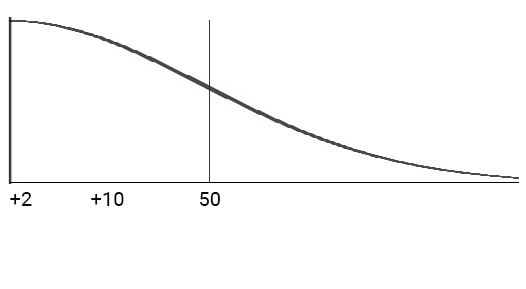
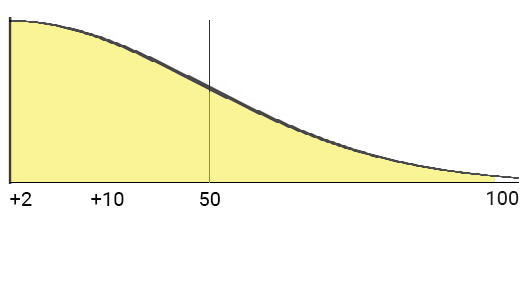
update

Changed region(s): [[0.0, 0.0623, 1.0, 0.7163]]

diff --git a/content/数据分析/微博抽奖到数据分析.md b/content/数据分析/微博抽奖到数据分析.md
@@ -3,7 +3,7 @@ title: "微博抽奖到数据分析"
 date: 2018-11-14T00:19:14+08:00
 ---
 
-感谢王思聪微博抽奖这个热点事件，我们获得了一个学习数据分析的机会😄😄。开始之前，我们先回顾一下这个事件：IG 战队在 LOL 比赛中夺冠，某王姓土豪发布了微博，从转发者中抽取 113名 用户发现金。
+感谢王思聪微博抽奖这个热点事件，我们获得了一个学习数据分析的机会😄😄。开始之前，我们先回顾一下这个事件：IG 战队在 LOL 比赛中夺冠，某王姓土豪发布了微博，从转发者中抽取 113名 用户送现金。
 
 ![wsc_weibo](https://coding.net/u/WindsonYang/p/WindsonYang.coding.me/git/raw/markdown/images/weibo/wsc_weibo.png)
 
@@ -15,14 +15,14 @@ date: 2018-11-14T00:19:14+08:00
 - 有的从新浪的角度出发，表明这只是新浪为了清除僵尸粉的措施，不小心把大部分男粉丝清除掉了。
 - 有的人认为抽到的都不是 ig 的粉丝，这样就像把演唱会门票送给不是粉丝的人一样，并不公平。
 
-作为一名旁观者，如果没有一定的统计与概率论背景，不太容易明白他们在说什么，更不用说判断对错了。如果你本身就不喜欢微博，会更容易认同诋毁微博方的观点。不过，这种根据自己的喜好所得出的结论是自欺欺人而不是真相。统计学是一个工具，而且是可以根据使用者的主观意识去操控的工具。**这篇文章通俗地解释整个事件背后发生的原因，让读者得出自己的结论，独立思考远比随波逐流重要。更好的消息是，这篇文章不需要任何数学背景知识。可以说，只要在今年双十一懂得如何凑单，都能看懂。**要知道这个抽奖有没有问题，我们先要知道怎么的结果是有问题，怎样的是正常的。
+作为一名旁观者，如果没有一定的统计与概率论背景，不太容易明白他们在说什么，更不用说判断对错了。如果你本身就不喜欢微博，会更容易认同诋毁微博方的观点。不过，这种根据自己的喜好所得出的结论是自欺欺人而不是真相。统计学是一个工具，而且是可以根据使用者的主观意识去操控的工具。**我希望通过这篇文章通俗地解释整个事件背后的原理，让读者得出自己的结论，独立思考远比随波逐流重要。更好的消息是，这篇文章不需要任何数学背景知识。可以说，只要在今年双十一懂得如何凑单，都能看懂。**
 
 #### 回到小型微博
-我们坐了时光机器，回到微博刚开始发展的时候，那时候微博一共只有 100名 用户，刚好 50名 男生 50名 女生，
+**要知道这个抽奖有没有问题，我们先要知道怎么的结果是有问题，怎样的是正常的。**我们坐上时光机器，回到微博刚开始发展的时候，那时候微博一共只有 100名 用户，刚好 50名 男生 50名 女生，
 
 ![男女](https://coding.net/u/WindsonYang/p/WindsonYang.coding.me/git/raw/markdown/images/weibo/male_female.png)
 
-微博为了庆祝这个里程碑举办了一次抽奖活动，从所有用户中里面随机抽取 **100名** 中奖者。毫无疑问地，我们能肯定中奖者的男女比例一定是 **1 比 1**，因为把所有用户都抽到了，皆大欢喜。
+微博为了庆祝这个里程碑举办了一次抽奖活动，从所有用户中里面随机抽取 **100名** 中奖者。毫无疑问地，中奖者的男女比例一定是 **1 比 1**，因为把所有用户都抽到了，皆大欢喜。
 
 慢慢越来越多人加入微博，现在已经有 1000名 用户，男女用户比例不变，还是 1 比 1。微博举行第二次抽奖，这时候还是从所有用户中随机抽取 100名 中奖者，那么这个时候，中奖者的男女比例是多少呢？我们不知道，有可能还是 1 比 1，有可能 60名女生，40名男生。也有可能全是女生。不需要用到数学公式，我们知道，**男女用户数量相近的情况会比全是女生出现的概率要大。**为什么？想象你参加一个游戏。
 
@@ -32,11 +32,15 @@ date: 2018-11-14T00:19:14+08:00
 
 ![normal_dis](https://coding.net/u/WindsonYang/p/WindsonYang.coding.me/git/raw/markdown/images/weibo/normal_100.png)
 
-我们可以看到中间 50 的高度最高，那么是不是抽到 50名 女生的概率最高呢？是，也不是，在考试中如果这样回答可能会得到满分，但这并不代表是事实。如果你手边有硬币的话，可以试试抛 10次，你会发现更有可能出现的是 6次 正面或者 6次 反面的情况，而不是刚刚好 5次 正面，5次 反面。奇怪，不是出现 5次 的概率最高吗？这和我们的理论不符合，为什么呢？**因为上面的图表没有列出所有的可能性**，我重新绘制了一张新的图表，如下：
+我们可以看到中间 50 的高度最高，那么是不是抽到 50名 女生的概率最高呢？是，也不是，在考试中如果这样回答可能会得到满分，但这并不代表是事实。如果你手边有硬币的话，可以试试抛 10次，你会发现更有可能出现 6次 正面或者 6次 反面的情况，而不是刚刚好 5次 正面，5次 反面。奇怪，既然正反面出现的概率都是 50%，那为什么不是出现 5次 正面的概率最高呢？这和理论不符合。**其实，这是因为上面的图表没有列出所有的可能性**，我重新绘制了一张新的图表，如下：
 
 ![normal_dis2](https://coding.net/u/WindsonYang/p/WindsonYang.coding.me/git/raw/markdown/images/weibo/new_normal_100.png)
 
-我们可以看到，**新的图表中，+2 出现的概率最高，+2 的意思是其中一方比另外一方要多 2名 的情况，也就是抽到 49名 女生和抽到 51名 女生出现的概率相加，**你可能会问，这算一种情况吗？这就是现实问题有趣的地方，它跳脱于理论的束缚。这个抽奖如果抽到 100名 女生，我们会很惊讶。同时，如果抽到 100名 男生的话，我们也是同样地惊讶。**我们更关注的是一边比另外一边多的数量，也就是相对的关系。抽到 49名 女生和 51名 女生 这2种 情况都是一边比另外一边多 2名。所以属于一种情况。**理解这点就能理解为什么硬币更容易出现 6次 正面或者 6次 反面的情况，现在我们能得到结论，抽奖中最有可能出现的是其中一边比另外一边多一些这种情况，其次是两边相等的情况，再其次是两边差距非常大的情况。如果结果在最右边的话，我们就会认为这个情况不太可能发生，不可信。我们接下来讲的现代微博问题。
+**新的图表中，中间是抽到 50名 女生的概率，最右边是抽到 100名 女生的概率。而+2 出现的概率最高，+2 的意思是一方比另一方多 2名 的情况，也就是抽到 49名 女生和抽到 51名 女生这两种情况的概率相加，**你可能会问，这算一种情况吗？这就是现实问题有趣的地方，它跳脱于理论的束缚。这个抽奖如果抽到 100名 女生，我们会很惊讶。同时，如果抽到 100名 男生的话，我们也是同样地惊讶。**我们更关注的是一边比另外一边多的数量，也就是相对的关系。抽到 49名 女生和 51名 女生 这2种 情况都是一方比另一方多 2名。所以都属于一种情况。**理解这点就能理解为什么硬币更容易出现 6次 正面或者 6次 反面，因为它们加起来出现的概率最高。
+
+从图表中我们看到，抽奖中最有可能出现的是一方比另一方多一些这种情况，其次是两边相等的情况，再其次是两边差距非常大的情况。这个时候，我们需要定义什么是可信的抽奖结果，也就是回答我们一开始的问题，怎样的结果才是正常的？**从统计上来说，一般我们会选取最有可能出现的 95% 的区间作为可信范围，也就是上图的黄色区域，最右边虽然是可能发生的，但是由于发生的概率太低，我们认为即使发生了，也是不可信的结果。**
+
+我们接下来讲的现代微博问题。
 
 #### 现代微博
 从微博 CEO 的微博中我们可以得知这次王思聪的抽奖转发参与的男女比例是 **1 比 1.2**
